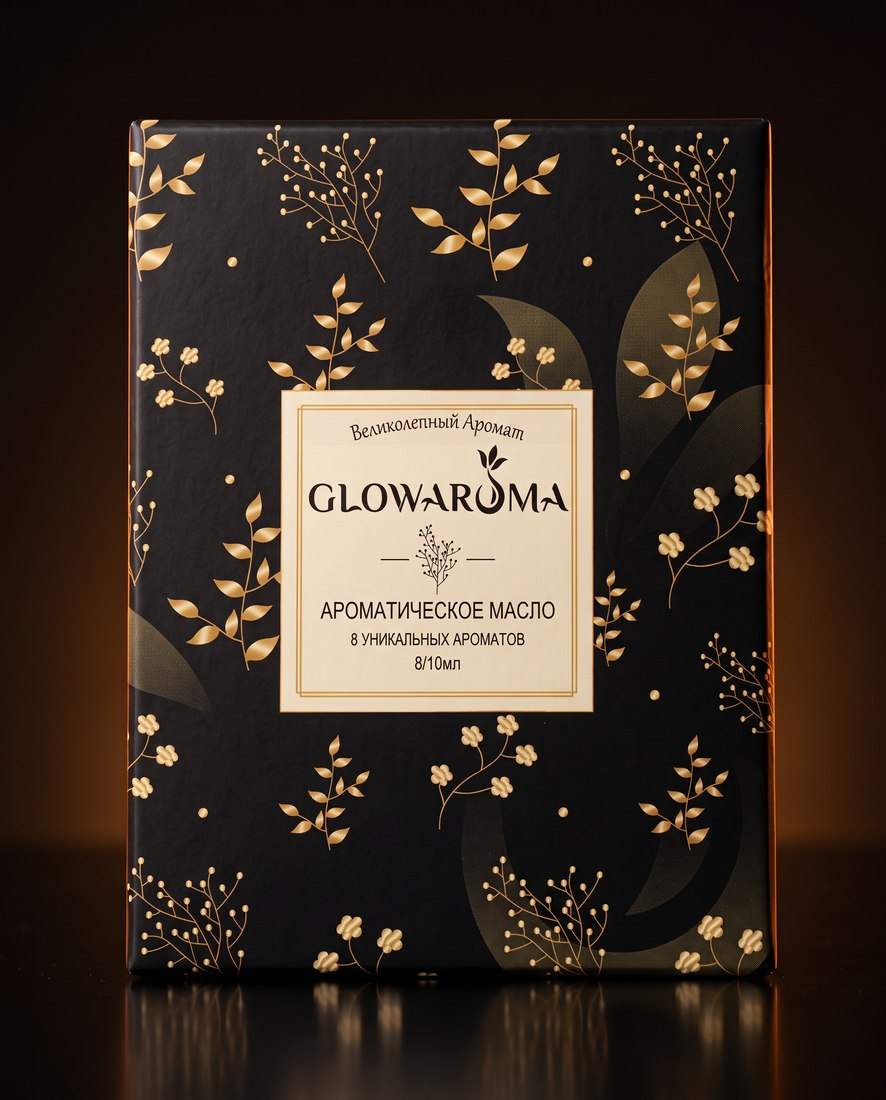
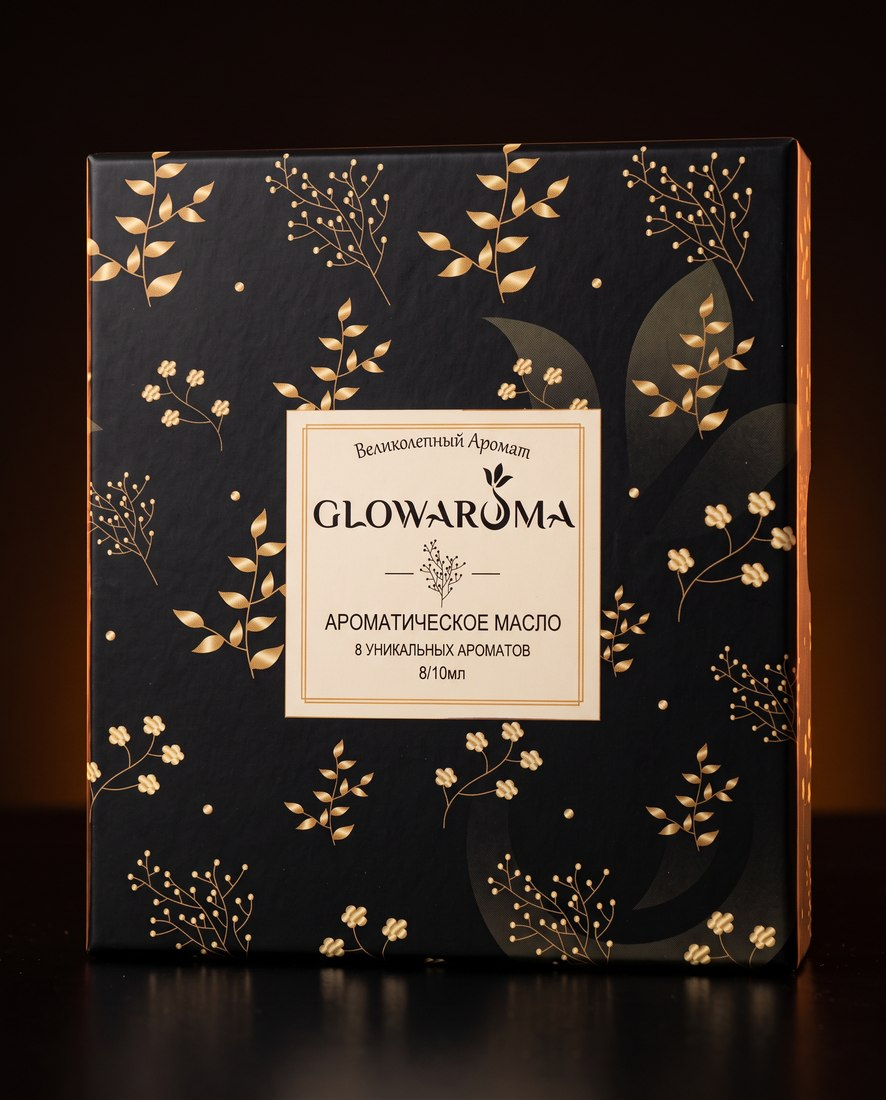
Trim the black box height so it stops reading as elongated
Same width, less height: the shape now sits close to square instead of
the tall rectangle, and reads as a sibling of the red box rather than an
odd one out.

diff --git a/tovar/filtry-12.html b/tovar/filtry-12.html
@@ -105,7 +105,7 @@
     <div class="sec-head reveal"><p class="kicker">Ещё в линейке</p><h2>Смотрят вместе с этим</h2></div>
     <div class="pcs">
       <a class="pc" href="nabor-8-klassika.html" style="--a:#E8B15C;--a2:#B8863A">
-        <div class="pc-img"><img src="../assets/img/p-black8.jpg?v=bbeae870" alt="Классический набор, 8 × 10 мл" loading="lazy"></div>
+        <div class="pc-img"><img src="../assets/img/p-black8.jpg?v=9239083c" alt="Классический набор, 8 × 10 мл" loading="lazy"></div>
         <div class="pc-txt"><h3>Классический набор, 8 × 10 мл</h3><p>Восемь композиций в чёрной подарочной коробке, с которых всё началось</p></div>
       </a>
       <a class="pc" href="nabor-8-krasnyy.html" style="--a:#E4453A;--a2:#A81E24">

diff --git a/tovar/filtry-6.html b/tovar/filtry-6.html
@@ -105,7 +105,7 @@
     <div class="sec-head reveal"><p class="kicker">Ещё в линейке</p><h2>Смотрят вместе с этим</h2></div>
     <div class="pcs">
       <a class="pc" href="nabor-8-klassika.html" style="--a:#E8B15C;--a2:#B8863A">
-        <div class="pc-img"><img src="../assets/img/p-black8.jpg?v=bbeae870" alt="Классический набор, 8 × 10 мл" loading="lazy"></div>
+        <div class="pc-img"><img src="../assets/img/p-black8.jpg?v=9239083c" alt="Классический набор, 8 × 10 мл" loading="lazy"></div>
         <div class="pc-txt"><h3>Классический набор, 8 × 10 мл</h3><p>Восемь композиций в чёрной подарочной коробке, с которых всё началось</p></div>
       </a>
       <a class="pc" href="nabor-8-krasnyy.html" style="--a:#E4453A;--a2:#A81E24">

diff --git a/tovar/nabor-6-banya.html b/tovar/nabor-6-banya.html
@@ -118,7 +118,7 @@
     <div class="sec-head reveal"><p class="kicker">Ещё в линейке</p><h2>Смотрят вместе с этим</h2></div>
     <div class="pcs">
       <a class="pc" href="nabor-8-klassika.html" style="--a:#E8B15C;--a2:#B8863A">
-        <div class="pc-img"><img src="../assets/img/p-black8.jpg?v=bbeae870" alt="Классический набор, 8 × 10 мл" loading="lazy"></div>
+        <div class="pc-img"><img src="../assets/img/p-black8.jpg?v=9239083c" alt="Классический набор, 8 × 10 мл" loading="lazy"></div>
         <div class="pc-txt"><h3>Классический набор, 8 × 10 мл</h3><p>Восемь композиций в чёрной подарочной коробке, с которых всё началось</p></div>
       </a>
       <a class="pc" href="nabor-8-krasnyy.html" style="--a:#E4453A;--a2:#A81E24">

diff --git a/tovar/nabor-6-parfyum.html b/tovar/nabor-6-parfyum.html
@@ -127,7 +127,7 @@
     <div class="sec-head reveal"><p class="kicker">Ещё в линейке</p><h2>Смотрят вместе с этим</h2></div>
     <div class="pcs">
       <a class="pc" href="nabor-8-klassika.html" style="--a:#E8B15C;--a2:#B8863A">
-        <div class="pc-img"><img src="../assets/img/p-black8.jpg?v=bbeae870" alt="Классический набор, 8 × 10 мл" loading="lazy"></div>
+        <div class="pc-img"><img src="../assets/img/p-black8.jpg?v=9239083c" alt="Классический набор, 8 × 10 мл" loading="lazy"></div>
         <div class="pc-txt"><h3>Классический набор, 8 × 10 мл</h3><p>Восемь композиций в чёрной подарочной коробке, с которых всё началось</p></div>
       </a>
       <a class="pc" href="nabor-8-krasnyy.html" style="--a:#E4453A;--a2:#A81E24">

diff --git a/tovar/nabor-8-krasnyy.html b/tovar/nabor-8-krasnyy.html
@@ -118,7 +118,7 @@
     <div class="sec-head reveal"><p class="kicker">Ещё в линейке</p><h2>Смотрят вместе с этим</h2></div>
     <div class="pcs">
       <a class="pc" href="nabor-8-klassika.html" style="--a:#E8B15C;--a2:#B8863A">
-        <div class="pc-img"><img src="../assets/img/p-black8.jpg?v=bbeae870" alt="Классический набор, 8 × 10 мл" loading="lazy"></div>
+        <div class="pc-img"><img src="../assets/img/p-black8.jpg?v=9239083c" alt="Классический набор, 8 × 10 мл" loading="lazy"></div>
         <div class="pc-txt"><h3>Классический набор, 8 × 10 мл</h3><p>Восемь композиций в чёрной подарочной коробке, с которых всё началось</p></div>
       </a>
       <a class="pc" href="nabor-6-parfyum.html" style="--a:#3E9B7A;--a2:#1F6350">

diff --git a/tovar/nabor-8-tsitrus.html b/tovar/nabor-8-tsitrus.html
@@ -118,7 +118,7 @@
     <div class="sec-head reveal"><p class="kicker">Ещё в линейке</p><h2>Смотрят вместе с этим</h2></div>
     <div class="pcs">
       <a class="pc" href="nabor-8-klassika.html" style="--a:#E8B15C;--a2:#B8863A">
-        <div class="pc-img"><img src="../assets/img/p-black8.jpg?v=bbeae870" alt="Классический набор, 8 × 10 мл" loading="lazy"></div>
+        <div class="pc-img"><img src="../assets/img/p-black8.jpg?v=9239083c" alt="Классический набор, 8 × 10 мл" loading="lazy"></div>
         <div class="pc-txt"><h3>Классический набор, 8 × 10 мл</h3><p>Восемь композиций в чёрной подарочной коробке, с которых всё началось</p></div>
       </a>
       <a class="pc" href="nabor-8-krasnyy.html" style="--a:#E4453A;--a2:#A81E24">

diff --git a/tovar/uvlazhnitel.html b/tovar/uvlazhnitel.html
@@ -108,7 +108,7 @@
     <div class="sec-head reveal"><p class="kicker">Ещё в линейке</p><h2>Смотрят вместе с этим</h2></div>
     <div class="pcs">
       <a class="pc" href="nabor-8-klassika.html" style="--a:#E8B15C;--a2:#B8863A">
-        <div class="pc-img"><img src="../assets/img/p-black8.jpg?v=bbeae870" alt="Классический набор, 8 × 10 мл" loading="lazy"></div>
+        <div class="pc-img"><img src="../assets/img/p-black8.jpg?v=9239083c" alt="Классический набор, 8 × 10 мл" loading="lazy"></div>
         <div class="pc-txt"><h3>Классический набор, 8 × 10 мл</h3><p>Восемь композиций в чёрной подарочной коробке, с которых всё началось</p></div>
       </a>
       <a class="pc" href="nabor-8-krasnyy.html" style="--a:#E4453A;--a2:#A81E24">

diff --git a/index.html b/index.html
@@ -85,7 +85,7 @@
     </div>
     <div class="pcs">
       <a class="pc reveal" href="tovar/nabor-8-klassika.html" style="--a:#E8B15C;--a2:#B8863A">
-        <div class="pc-img"><img src="assets/img/p-black8.jpg?v=bbeae870" alt="Классический набор, 8 × 10 мл" loading="lazy" decoding="async"></div>
+        <div class="pc-img"><img src="assets/img/p-black8.jpg?v=9239083c" alt="Классический набор, 8 × 10 мл" loading="lazy" decoding="async"></div>
         <div class="pc-txt"><h3>Классический набор, 8 × 10 мл</h3><p>Восемь композиций в чёрной подарочной коробке, с которых всё началось</p><span class="pc-go">Подробнее</span></div>
       </a>
       <a class="pc reveal" href="tovar/nabor-8-krasnyy.html" style="--a:#E4453A;--a2:#A81E24">

diff --git a/catalog.html b/catalog.html
@@ -49,7 +49,7 @@
       <div class="pcs pcs-all">
       <a class="pc reveal" href="tovar/nabor-8-klassika.html"
          style="--a:#E8B15C;--a2:#B8863A">
-        <div class="pc-img"><img src="assets/img/p-black8.jpg?v=bbeae870" alt="Классический набор, 8 × 10 мл" loading="lazy" decoding="async"></div>
+        <div class="pc-img"><img src="assets/img/p-black8.jpg?v=9239083c" alt="Классический набор, 8 × 10 мл" loading="lazy" decoding="async"></div>
         <div class="pc-txt"><span class="pc-meta">8 ароматов</span>
           <h3>Классический набор, 8 × 10 мл</h3><p>Восемь композиций в чёрной подарочной коробке, с которых всё началось</p>
           <span class="pc-go">Подробнее</span>

diff --git a/tovar/nabor-8-klassika.html b/tovar/nabor-8-klassika.html
@@ -48,7 +48,7 @@
       <dl class="facts"><div><dt>Объём</dt><dd>8 флаконов по 10 мл</dd></div><div><dt>Формат</dt><dd>водорастворимый ароматический состав</dd></div><div><dt>Куда добавлять</dt><dd>увлажнитель, аромалампа, диффузор, аромакамень</dd></div><div><dt>Срок годности</dt><dd>36 месяцев</dd></div></dl>
     </div>
     <div class="phero-img">
-      <img src="../assets/img/p-black8.jpg?v=bbeae870" alt="Классический набор, 8 × 10 мл" width="900" height="1100">
+      <img src="../assets/img/p-black8.jpg?v=9239083c" alt="Классический набор, 8 × 10 мл" width="900" height="1100">
     </div>
   </div>
 </section>
